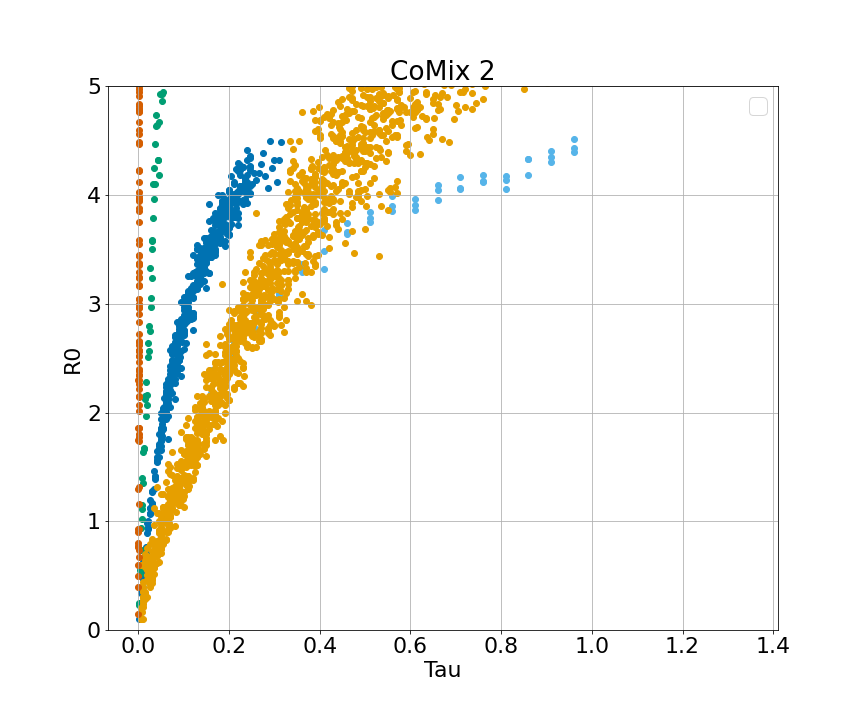
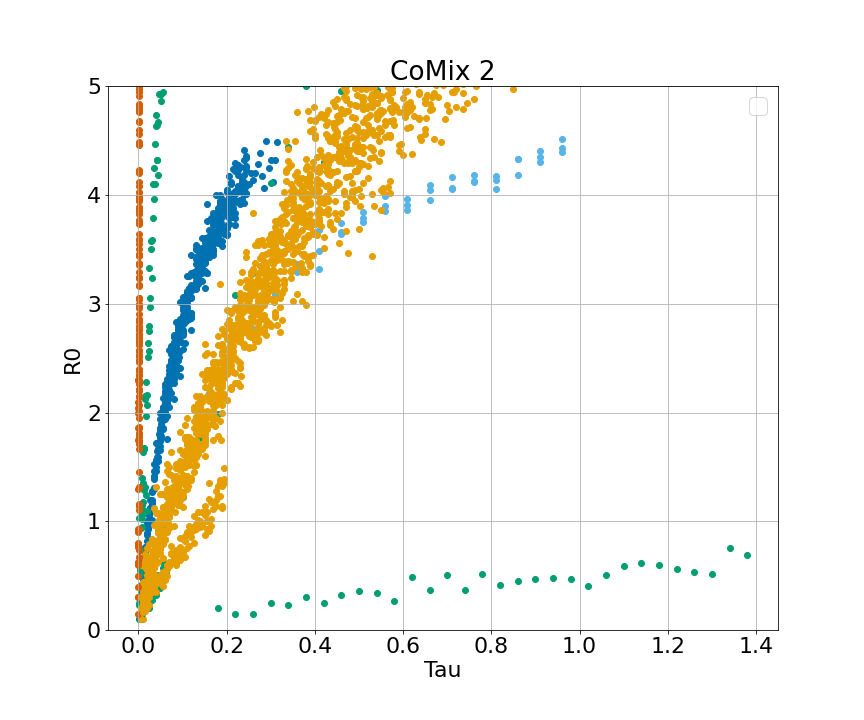
sims all

diff --git a/_final_sellke.py b/_final_sellke.py
@@ -34,10 +34,14 @@ scales = ['none', 'none']
 # taus = [[np.arange(0.005,0.1,0.005), np.arange(0.0005,0.005,0.0005)],
 #         [np.arange(0.005,0.1,0.005), np.arange(0.00005,0.001,0.00005)],
 #         [np.arange(0.001,0.05,0.001), np.arange(0.0001,0.03,0.0001)]]
-# 20,21
-taus = [[np.arange(0.005,0.05,0.005), np.arange(0.0001,0.005,0.0001)],
-        [np.arange(0.005,0.05,0.005), np.arange(0.00005,0.001,0.00005)],
-        [np.arange(0.001,0.025,0.001), np.arange(0.0005,0.015,0.0005)]]
+# 20,21,22
+# taus = [[np.arange(0.005,0.05,0.005), np.arange(0.0001,0.005,0.0001)],
+#         [np.arange(0.005,0.05,0.005), np.arange(0.00005,0.001,0.00005)],
+#         [np.arange(0.001,0.025,0.001), np.arange(0.0005,0.015,0.0005)]]
+# 23,24
+taus = [[np.arange(0.1,0.205,0.005), np.arange(0.0005,0.01,0.0005)],
+        [np.arange(0.05,0.2,0.01), np.arange(0.0005,0.01,0.0005)],
+        [np.arange(0.001,0.1,0.005), np.arange(0.0025,0.05,0.0025)]]
 
 ### long
 ## 0,1,2
@@ -54,6 +58,6 @@ for i, data in enumerate(datas):
         else:
             params = np.genfromtxt(f'input_data/parameters/params_{data}_{model}.csv', delimiter=',')
         result = nd_p.big_sellke_sims(partitions=partitions,contact_matrix=contact_matrix,network_params=params,n=n,dist_type=model,num_networks=1,iterations=iters, taus=taus[i][j],prop_infec=10/n, scaling=scales[j])
-        with open(f'../output_data/simulations/big/sellke/SIR/22_{data}_{model}_{scales[j]}.json','w') as f:
+        with open(f'../output_data/simulations/big/sellke/SIR/23_{data}_{model}_{scales[j]}.json','w') as f:
             json.dump(result, f)
 print('done')

diff --git a/_final_sellke_scale.py b/_final_sellke_scale.py
@@ -38,10 +38,15 @@ scales = ['fit1', 'fit2']
 # taus = [[np.arange(0.005,0.3,0.005)],
 #         [np.arange(0.005,0.4,0.005)],
 #         [np.arange(0.005,0.2,0.005)]]
-# 20,21
-taus = [[np.arange(0.0025,0.1,0.0025)],
-        [np.arange(0.0025,0.1,0.0025)],
-        [np.arange(0.0025,0.1,0.0025)]]
+# 20,21,22
+# taus = [[np.arange(0.0025,0.1,0.0025)],
+#         [np.arange(0.0025,0.1,0.0025)],
+#         [np.arange(0.0025,0.1,0.0025)]]
+# 23
+taus = [[np.arange(0.0005,0.01,0.0005)],
+        [np.arange(0.0005,0.09,0.0005)],
+        [np.arange(0.0005,0.06,0.0005)]]
+taus = [[15*x for x in a] for a in taus]
 
 
 ##long
@@ -60,6 +65,6 @@ for i, data in enumerate(datas):
         else:
             params = np.genfromtxt(f'input_data/parameters/params_{data}_{model}.csv', delimiter=',')
         result = nd_p.big_sellke_sims(partitions=partitions,contact_matrix=contact_matrix,network_params=params,n=n,dist_type=model,num_networks=1,iterations=iters, taus=taus[i][j],prop_infec=10/n, scaling=scales[j])
-        with open(f'../output_data/simulations/big/sellke/SIR/22_{data}_{model}_{scales[j]}.json','w') as f:
+        with open(f'../output_data/simulations/big/sellke/SIR/23_{data}_{model}_{scales[j]}.json','w') as f:
             json.dump(result, f)
 print('done')

diff --git a/_final_sellke_noage_c1.py b/_final_sellke_noage_c1.py
@@ -38,10 +38,14 @@ scales = ['fit1']
 # taus = [[np.arange(0.4,0.605,0.005)]]
 # taus = [[np.arange(0.07,0.09,0.002)]]
 # taus = [[np.arange(0.05,0.09,0.002)]]
-## 8,9,10,11
-taus = [[np.arange(0.005,0.205,0.005)]]
+## 8,9,10,11,12
+# taus = [[np.arange(0.005,0.205,0.005)]]
 # taus = [[np.arange(0.001,0.02,0.002)]]
 # taus = [[np.arange(0.001,0.04,0.002)]]
+## 13,14
+taus = [[np.arange(0.4,0.805,0.005)]]
+# taus = [[np.arange(0.07,0.11,0.002)]]
+# taus = [[np.arange(0.05,0.11,0.002)]]
 
 for i, data in enumerate(datas):
     for j, model in enumerate(models):
@@ -54,6 +58,6 @@ for i, data in enumerate(datas):
         df = pd.read_csv(f'input_data/{data}.csv')
         _, contact_matrix, params = nd_p.fit_to_data(df=df,dist_type=model, buckets=buckets, save_fig=False)
         result = nd_p.big_sellke_sims(partitions=partitions,contact_matrix=contact_matrix,network_params=params,n=n,dist_type=model,num_networks=1,iterations=iters, taus=taus[i][j],prop_infec=10/n, scaling=scales[j])
-        with open(f'../output_data/simulations/big/sellke/SIR/12_{data}_{model}_{scales[j]}_noage.json','w') as f:
+        with open(f'../output_data/simulations/big/sellke/SIR/13_{data}_{model}_{scales[j]}_noage.json','w') as f:
             json.dump(result, f)
 print('done')

diff --git a/_final_sellke_noage_p.py b/_final_sellke_noage_p.py
@@ -38,10 +38,14 @@ scales = ['fit1']
 # taus = [[np.arange(0.4,0.605,0.005)]]
 # taus = [[np.arange(0.07,0.09,0.002)]]
 # taus = [[np.arange(0.05,0.09,0.002)]]
-## 8,9
+## 8,9,10,11,12
 # taus = [[np.arange(0.005,0.205,0.005)]]
 # taus = [[np.arange(0.001,0.02,0.002)]]
-taus = [[np.arange(0.001,0.04,0.002)]]
+# taus = [[np.arange(0.001,0.04,0.002)]]
+## 13,14
+# taus = [[np.arange(0.4,0.805,0.005)]]
+# taus = [[np.arange(0.07,0.11,0.002)]]
+taus = [[np.arange(0.05,0.11,0.002)]]
 
 for i, data in enumerate(datas):
     for j, model in enumerate(models):
@@ -54,6 +58,6 @@ for i, data in enumerate(datas):
         df = pd.read_csv(f'input_data/{data}.csv')
         _, contact_matrix, params = nd_p.fit_to_data(df=df,dist_type=model, buckets=buckets, save_fig=False)
         result = nd_p.big_sellke_sims(partitions=partitions,contact_matrix=contact_matrix,network_params=params,n=n,dist_type=model,num_networks=1,iterations=iters, taus=taus[i][j],prop_infec=10/n, scaling=scales[j])
-        with open(f'../output_data/simulations/big/sellke/SIR/12_{data}_{model}_{scales[j]}_noage.json','w') as f:
+        with open(f'../output_data/simulations/big/sellke/SIR/13_{data}_{model}_{scales[j]}_noage.json','w') as f:
             json.dump(result, f)
 print('done')

diff --git a/_final_sellke_noage_c2.py b/_final_sellke_noage_c2.py
@@ -38,10 +38,14 @@ scales = ['fit1']
 # taus = [[np.arange(0.4,0.605,0.005)]]
 # taus = [[np.arange(0.07,0.09,0.002)]]
 # taus = [[np.arange(0.05,0.09,0.002)]]
-## 8,9
+## 8,9,10
 # taus = [[np.arange(0.005,0.205,0.005)]]
-taus = [[np.arange(0.001,0.02,0.002)]]
+# taus = [[np.arange(0.001,0.02,0.002)]]
 # taus = [[np.arange(0.001,0.04,0.002)]]
+## 11,12
+# taus = [[np.arange(0.4,0.805,0.005)]]
+taus = [[np.arange(0.07,0.11,0.002)]]
+# taus = [[np.arange(0.05,0.11,0.002)]]
 
 
 for i, data in enumerate(datas):
@@ -55,6 +59,6 @@ for i, data in enumerate(datas):
         df = pd.read_csv(f'input_data/{data}.csv')
         _, contact_matrix, params = nd_p.fit_to_data(df=df,dist_type=model, buckets=buckets, save_fig=False)
         result = nd_p.big_sellke_sims(partitions=partitions,contact_matrix=contact_matrix,network_params=params,n=n,dist_type=model,num_networks=1,iterations=iters, taus=taus[i][j],prop_infec=10/n, scaling=scales[j])
-        with open(f'../output_data/simulations/big/sellke/SIR/10_{data}_{model}_{scales[j]}_noage5.json','w') as f:
+        with open(f'../output_data/simulations/big/sellke/SIR/11_{data}_{model}_{scales[j]}_noage5.json','w') as f:
             json.dump(result, f)
 print('done')
